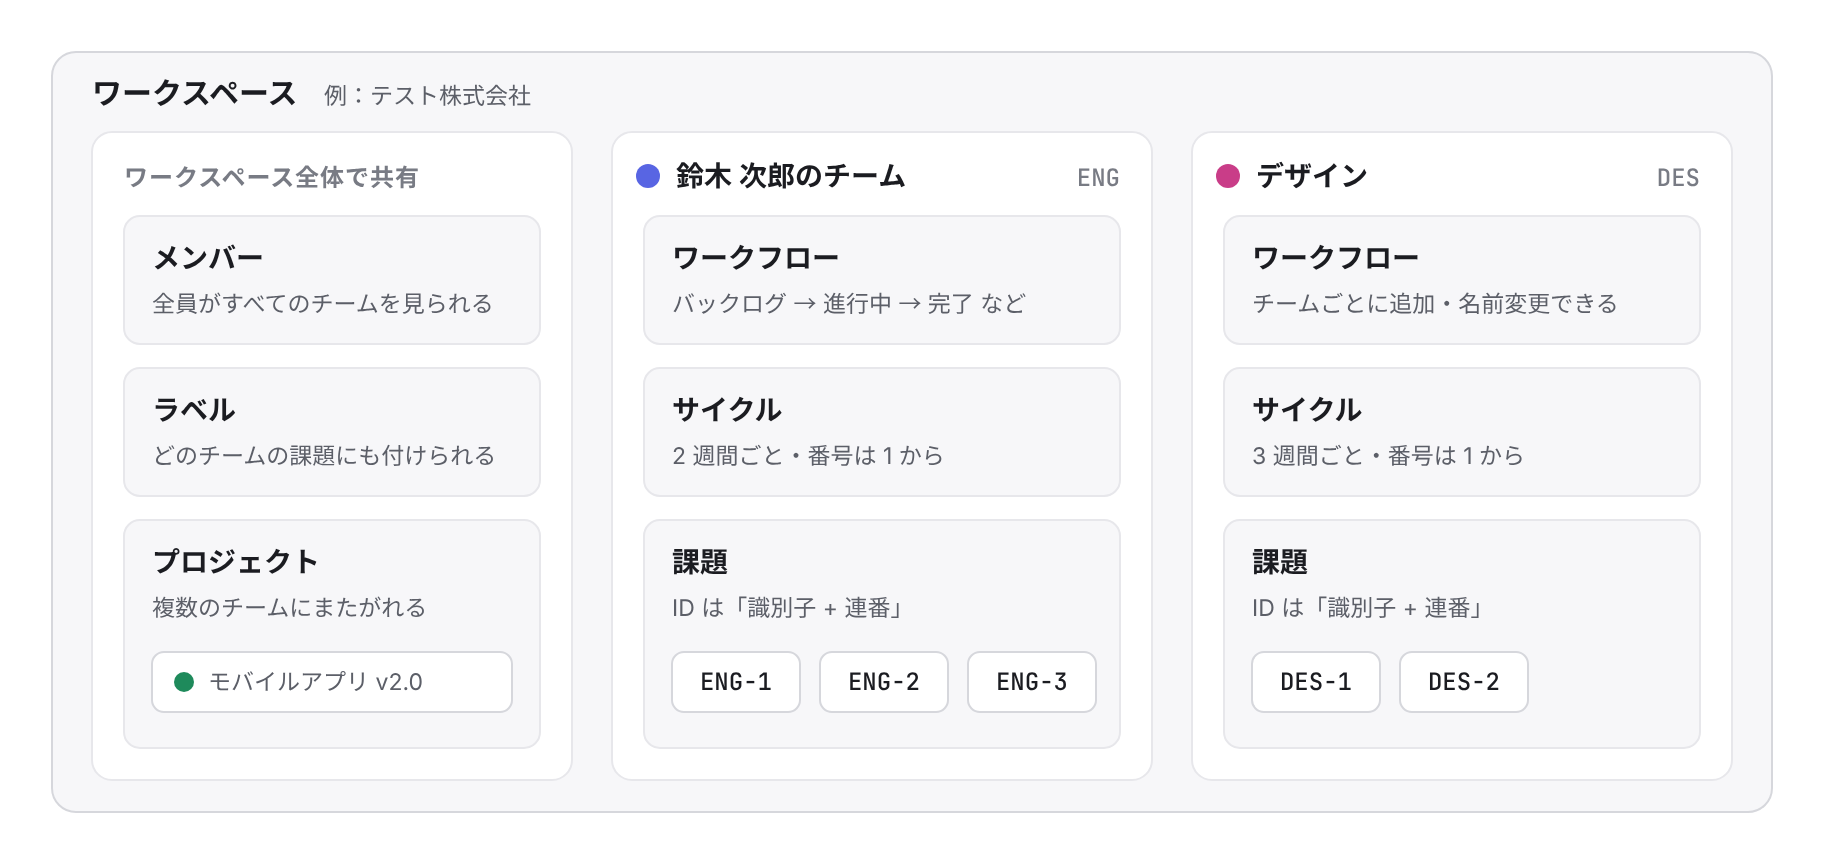
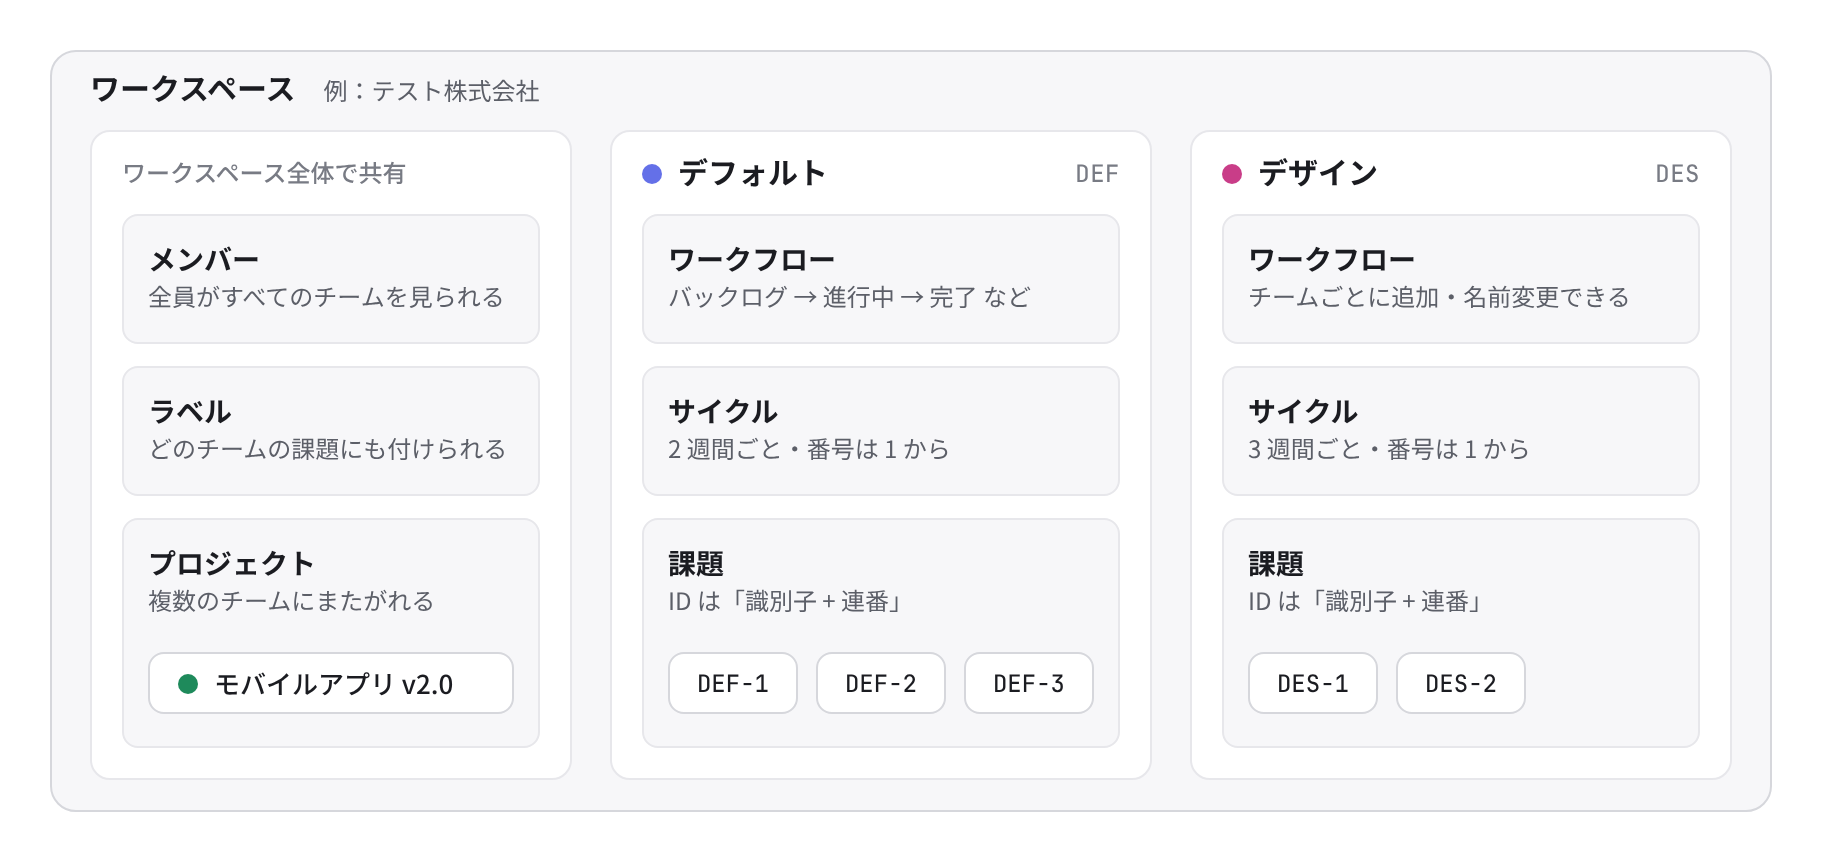
README の図「チームの構成」をチーム「デフォルト」（DEF）で作り直す
- 図の元データを docs/diagrams/ の HTML として追加（ライト・ダークは prefers-color-scheme で切り替え）
- bun run diagrams（scripts/render-diagrams.mjs）で docs/images/ に PNG を書き出せるようにする
- team-structure の PNG（ライト・ダーク）を書き出し直す

Claude-Session: https://claude.ai/code/session_01QjZbnsehNPyMXhKnuroriF

diff --git a/docs/diagrams/team-structure.html b/docs/diagrams/team-structure.html
@@ -1,0 +1,288 @@
+<!-- bun run diagrams で docs/images/ に書き出す -->
+<!DOCTYPE html>
+<html lang="ja">
+<head>
+<meta charset="utf-8">
+<title>チームの構造</title>
+<style>
+  :root {
+    --bg: #ffffff;
+    --frame: #f7f7f9;
+    --frame-border: #d6d7dc;
+    --surface: #ffffff;
+    --card: #f7f7f9;
+    --line: #e7e7eb;
+    --text: #1b1c21;
+    --muted: #5c5f68;
+    --label: #787b84;
+    --accent: #6470e8;
+    --pink: #c93d88;
+    --green: #1e8a5b;
+    color-scheme: light;
+  }
+
+  @media (prefers-color-scheme: dark) {
+    :root {
+      --bg: #111215;
+      --frame: #17181b;
+      --frame-border: #2d2f34;
+      --surface: #111215;
+      --card: #17181b;
+      --line: #212226;
+      --text: #e6e6e9;
+      --muted: #a1a3a9;
+      --label: #7d7f86;
+      --accent: #6470e8;
+      --pink: #e255a1;
+      --green: #3fb27f;
+      color-scheme: dark;
+    }
+  }
+
+  * { box-sizing: border-box; margin: 0; padding: 0; }
+
+  html, body {
+    width: 912px;
+    height: 432px;
+    margin: 0;
+    background: var(--bg);
+    overflow: hidden;
+  }
+
+  body {
+    position: relative;
+    font-family: "Noto Sans JP", "Hiragino Sans", sans-serif;
+    color: var(--text);
+    -webkit-font-smoothing: antialiased;
+  }
+
+  .frame {
+    position: absolute;
+    left: 25px;
+    top: 25px;
+    width: 861px;
+    height: 381px;
+    background: var(--frame);
+    border: 1px solid var(--frame-border);
+    border-radius: 13px;
+    padding: 0 19px 15px;
+    display: flex;
+    flex-direction: column;
+  }
+
+  .ws-head {
+    height: 39px;
+    display: flex;
+    align-items: baseline;
+    gap: 14px;
+    padding-top: 11px;
+  }
+
+  .ws-name {
+    font-size: 15px;
+    font-weight: 700;
+    line-height: 1;
+  }
+
+  .ws-ex {
+    font-size: 12px;
+    font-weight: 400;
+    line-height: 1;
+    color: var(--muted);
+  }
+
+  .cols {
+    height: 325px;
+    display: flex;
+    gap: 19px;
+  }
+
+  .col {
+    height: 325px;
+    background: var(--surface);
+    border: 1px solid var(--line);
+    border-radius: 10px;
+    padding: 0 15px 15px;
+    display: flex;
+    flex-direction: column;
+  }
+
+  .col.shared { width: 241px; flex: none; }
+  .col.team { width: 271px; flex: none; }
+
+  .col-head {
+    height: 41px;
+    display: flex;
+    align-items: center;
+    justify-content: space-between;
+    font-size: 12px;
+    font-weight: 500;
+    line-height: 1;
+    color: var(--label);
+  }
+
+  .who {
+    display: flex;
+    align-items: center;
+    gap: 8px;
+    color: var(--text);
+    font-size: 15px;
+    font-weight: 700;
+  }
+
+  .key {
+    font-family: "JetBrains Mono", ui-monospace, monospace;
+    font-size: 12px;
+    font-weight: 500;
+    color: var(--label);
+    letter-spacing: 0.02em;
+  }
+
+  .dot {
+    width: 10px;
+    height: 10px;
+    border-radius: 50%;
+    flex: none;
+  }
+
+  .dot.accent { background: var(--accent); }
+  .dot.pink { background: var(--pink); }
+  .dot.green { background: var(--green); }
+
+  .card {
+    height: 65px;
+    margin-bottom: 11px;
+    background: var(--card);
+    border: 1px solid var(--line);
+    border-radius: 8px;
+    padding: 15px 12px 0;
+  }
+
+  .card:last-child {
+    height: 115px;
+    margin-bottom: 0;
+    display: flex;
+    flex-direction: column;
+  }
+
+  .card h3 {
+    font-size: 14px;
+    font-weight: 700;
+    line-height: 1;
+  }
+
+  .card p {
+    margin-top: 6px;
+    font-size: 12px;
+    font-weight: 400;
+    line-height: 1;
+    color: var(--muted);
+  }
+
+  .chips {
+    margin-top: auto;
+    margin-bottom: 16px;
+    display: flex;
+    gap: 9px;
+  }
+
+  .chip, .pill {
+    height: 31px;
+    background: var(--surface);
+    border: 1px solid var(--frame-border);
+    border-radius: 8px;
+    display: flex;
+    align-items: center;
+    justify-content: center;
+  }
+
+  .chip {
+    width: 65px;
+    font-family: "JetBrains Mono", ui-monospace, monospace;
+    font-size: 12px;
+    font-weight: 500;
+  }
+
+  .pill {
+    margin-top: auto;
+    margin-bottom: 16px;
+    justify-content: flex-start;
+    gap: 8px;
+    padding: 0 14px;
+    font-size: 13px;
+    font-weight: 500;
+  }
+</style>
+</head>
+<body>
+  <div class="frame">
+    <div class="ws-head">
+      <span class="ws-name">ワークスペース</span>
+      <span class="ws-ex">例：テスト株式会社</span>
+    </div>
+    <div class="cols">
+      <section class="col shared">
+        <div class="col-head">ワークスペース全体で共有</div>
+        <div class="card">
+          <h3>メンバー</h3>
+          <p>全員がすべてのチームを見られる</p>
+        </div>
+        <div class="card">
+          <h3>ラベル</h3>
+          <p>どのチームの課題にも付けられる</p>
+        </div>
+        <div class="card">
+          <h3>プロジェクト</h3>
+          <p>複数のチームにまたがれる</p>
+          <div class="pill"><span class="dot green"></span>モバイルアプリ v2.0</div>
+        </div>
+      </section>
+      <section class="col team">
+        <div class="col-head">
+          <span class="who"><span class="dot accent"></span>デフォルト</span>
+          <span class="key">DEF</span>
+        </div>
+        <div class="card">
+          <h3>ワークフロー</h3>
+          <p>バックログ → 進行中 → 完了 など</p>
+        </div>
+        <div class="card">
+          <h3>サイクル</h3>
+          <p>2 週間ごと・番号は 1 から</p>
+        </div>
+        <div class="card">
+          <h3>課題</h3>
+          <p>ID は「識別子 + 連番」</p>
+          <div class="chips">
+            <span class="chip">DEF-1</span>
+            <span class="chip">DEF-2</span>
+            <span class="chip">DEF-3</span>
+          </div>
+        </div>
+      </section>
+      <section class="col team">
+        <div class="col-head">
+          <span class="who"><span class="dot pink"></span>デザイン</span>
+          <span class="key">DES</span>
+        </div>
+        <div class="card">
+          <h3>ワークフロー</h3>
+          <p>チームごとに追加・名前変更できる</p>
+        </div>
+        <div class="card">
+          <h3>サイクル</h3>
+          <p>3 週間ごと・番号は 1 から</p>
+        </div>
+        <div class="card">
+          <h3>課題</h3>
+          <p>ID は「識別子 + 連番」</p>
+          <div class="chips">
+            <span class="chip">DES-1</span>
+            <span class="chip">DES-2</span>
+          </div>
+        </div>
+      </section>
+    </div>
+  </div>
+</body>
+</html>
